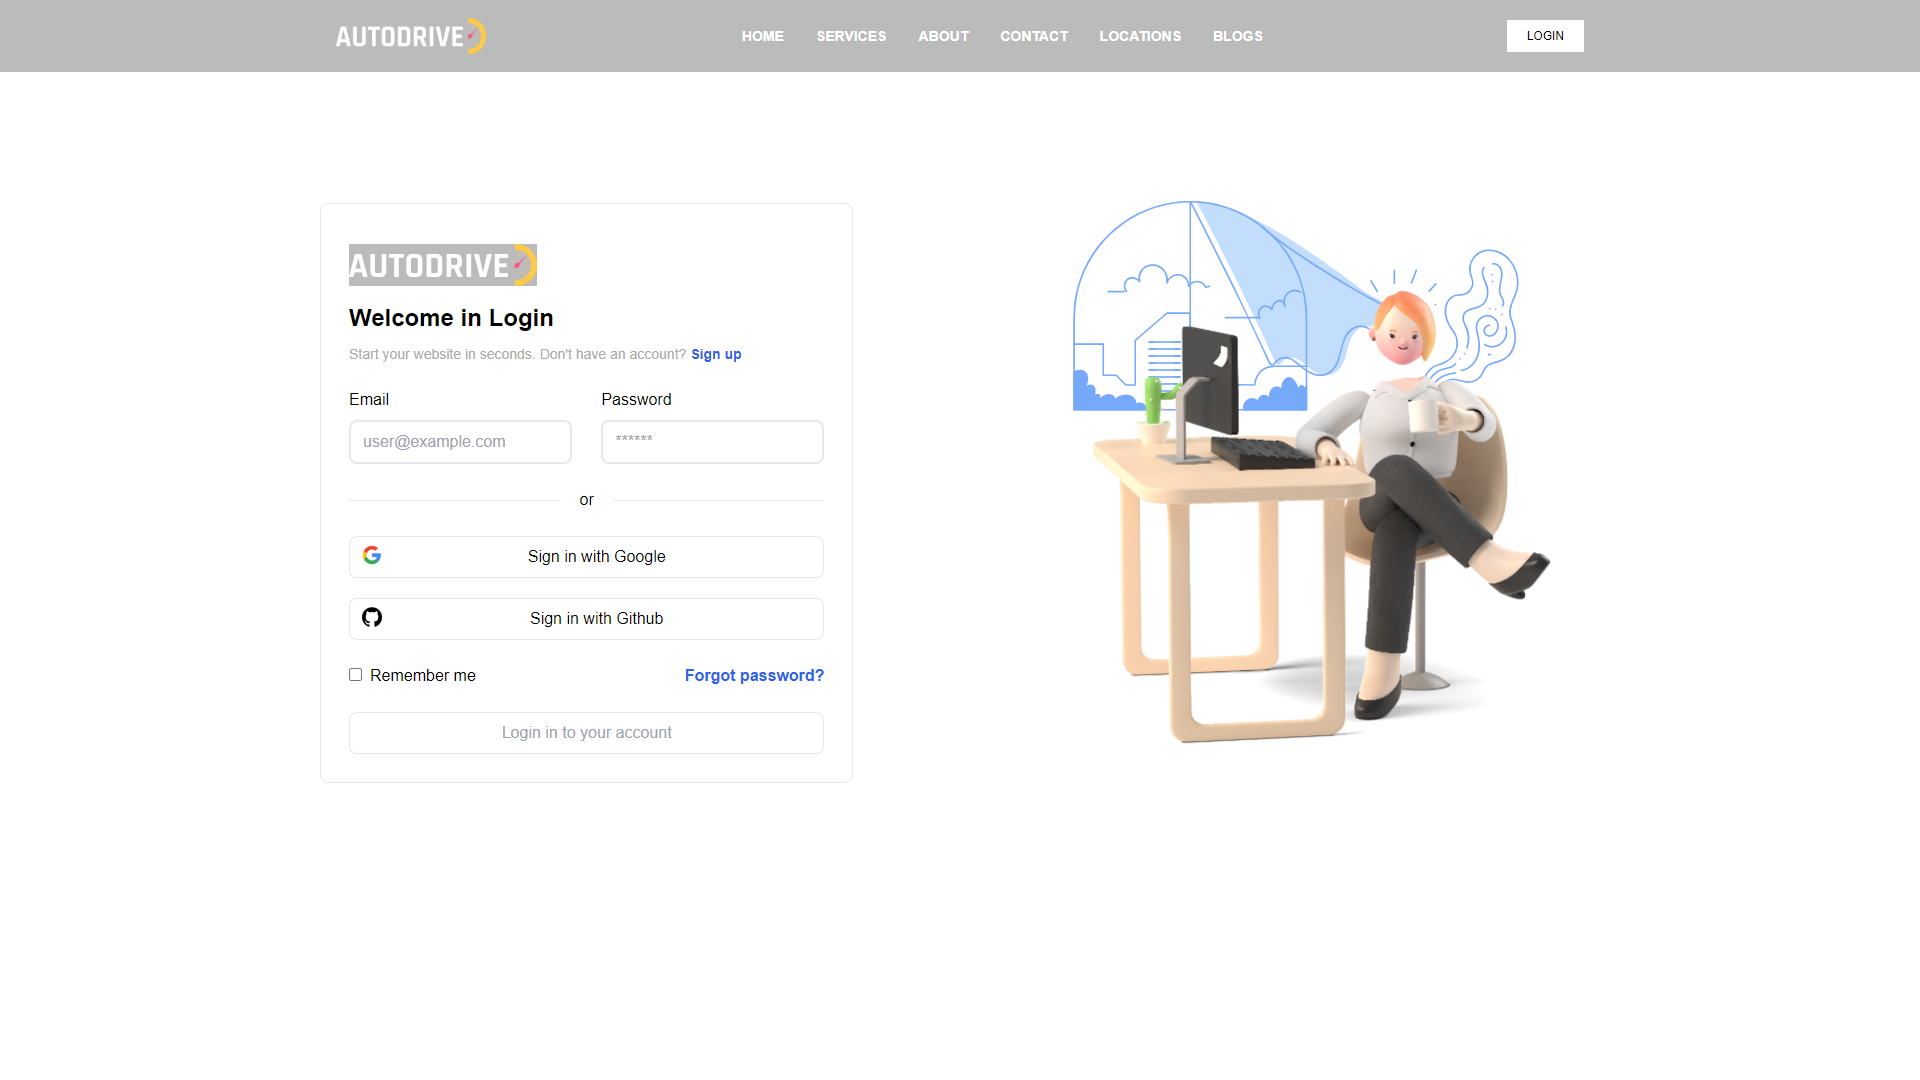
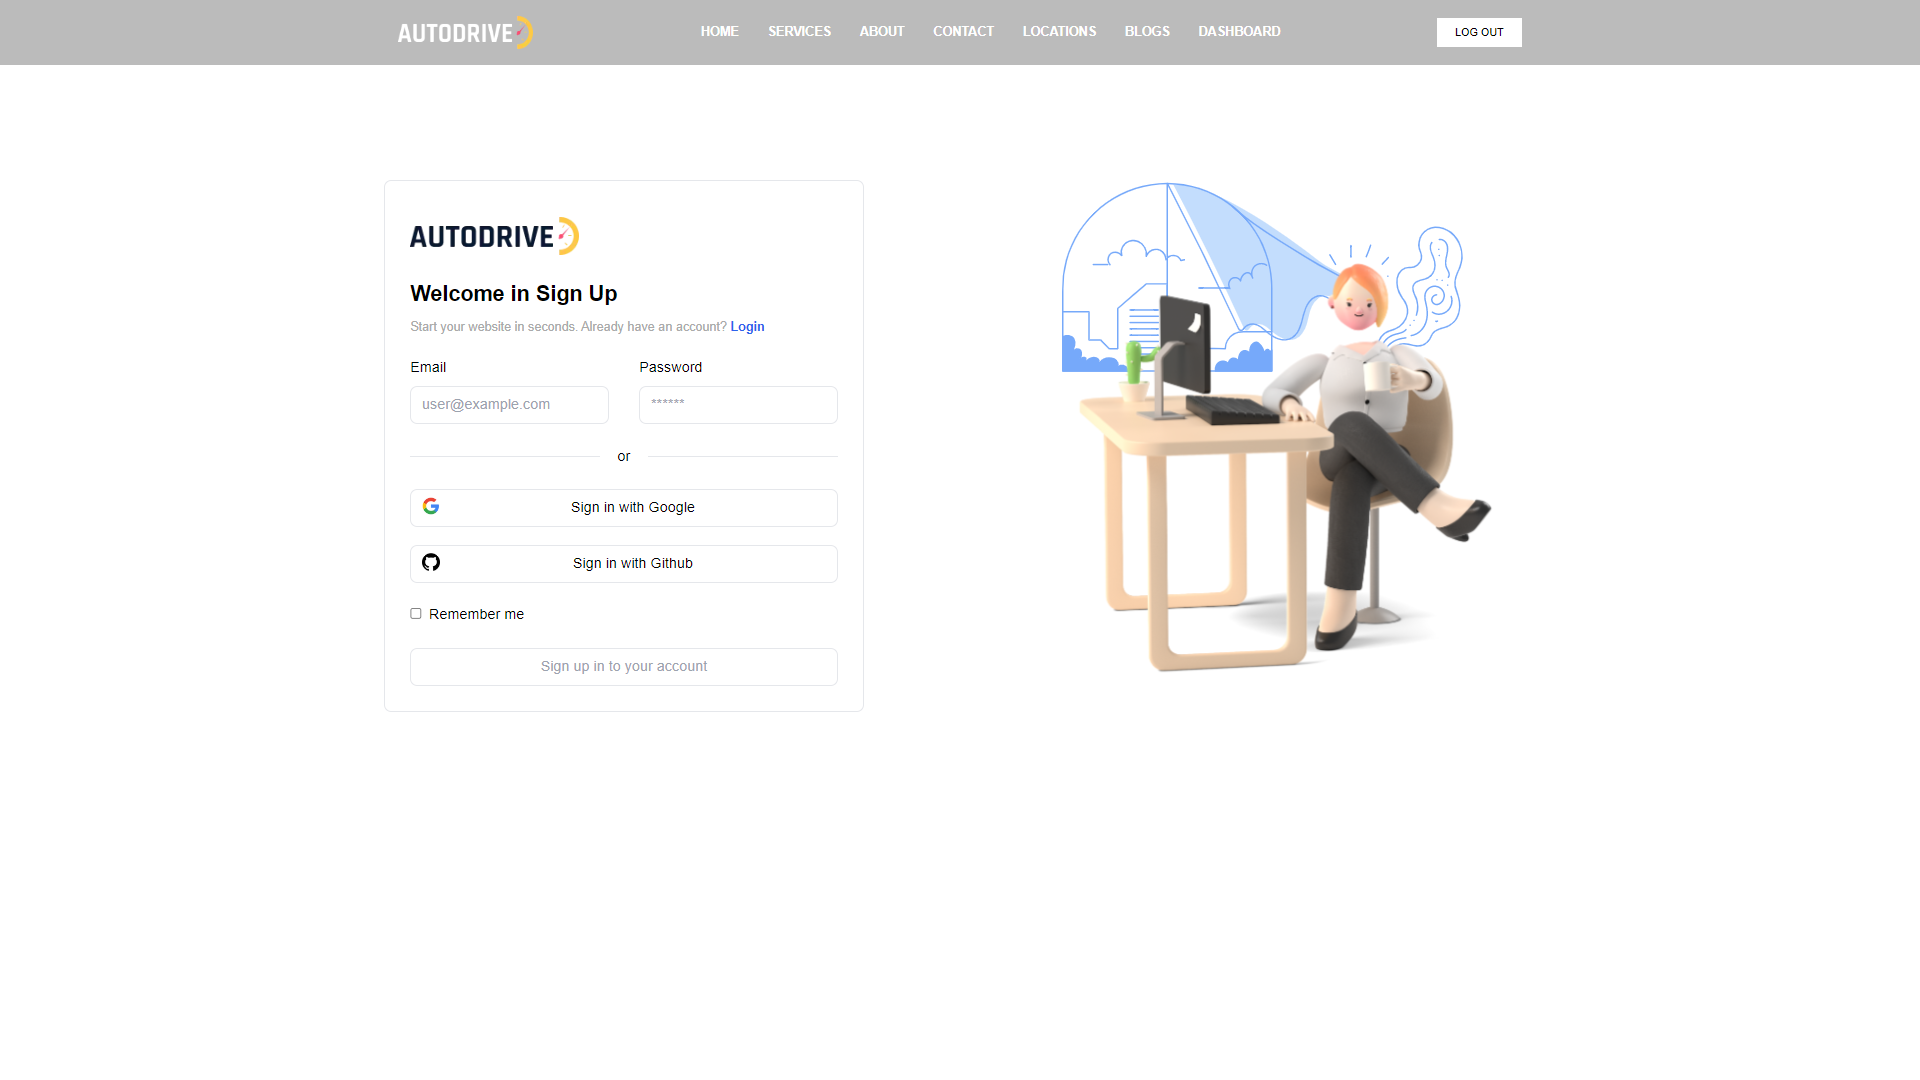
now dashboar design  is very  good

diff --git a/components/Layout/DashboardLayout.js b/components/Layout/DashboardLayout.js
@@ -3,14 +3,12 @@ import Navbar from "../Navbar";
 import Footer from '../../components/Footer'
 import Link from "next/link";
 import { useRouter } from "next/router";
-import { useDispatch, useSelector } from "react-redux";
-import {dashboardToggle} from "../../redux/dashboardToggle";
+import { useState } from "react";
 
 const DashboardLayout = ({ children }) => {
-    const toggle = useSelector(state => state.dashboardToggle.value)
-    const dispatch = useDispatch()
-    
+
     const router = useRouter()
+    const [open, setOpen] = useState(true);
     return (
         <main>
             <Head>
@@ -19,34 +17,64 @@ const DashboardLayout = ({ children }) => {
             </Head>
             <Navbar>Dashboard</Navbar>
             <section className='max-w-7xl mx-auto flex overflow-hidden'>
-                <aside className={`bg-[#ccc] lg:p-5 pl-2 pr-4 sm:px-4 lg:pl-10 pb-10 min-h-[50vh] relative duration-300 ${toggle ? 'w-[45px] sm:w-[50px] md:w-[60px] lg:w-[100px]': 'md:w-[300px] min-w-[150px]'}`}>
-                    <i onClick={() => dispatch(dashboardToggle())} className={`fa-solid fa-angle-right bg-white border-[1px] border-[black] px-[4px] py-[2px] sm:px-2 p sm:py-1 text-[10px] sm:text-sm rounded-full absolute right-[-7px] sm:right-[-12px] top-[5px] md:top-[10px] lg:top-[15px] cursor-pointer duration-300 ${!toggle && 'rotate-180'}`}></i>
-                    <div>
-                        <Link className={`text-sm md:text-xl mt-[10px] sm:mt-[20px] lg:mt-[30px] inline-block grid grid-cols-8 ${router.route === '/dashboard' && 'text-white'}`} href='/dashboard'> <i className="fa-solid fa-user self-center"></i> <span className={`col-start-3 col-end-9 md:col-start-2 md:col-end-9 duration-300 ml-2 ${toggle && 'hidden'}`}>Profile</span></Link>
+                <div className={`${open ? "w-72" : "w-12 sm:w-20"} bg-dark-purple p-1 sm:p-5 pt-5 sm:pt-8 relative duration-300 bg-[#ccc] min-h-[70vh]`}>
+                    <i onClick={() => setOpen(!open)} className={`fa-solid fa-angle-right absolute cursor-pointer -right-3 top-9 px-2 hover:bg-white border-black py-1 border-2 rounded-full  ${open && "rotate-180"}`}></i>
+                    <div className="flex gap-x-4 items-center">
+                        <h1 className={`text-white origin-left font-medium text-xl duration-200 ${!open && "scale-0"}`}>
+                            Dashboard
+                        </h1>
                     </div>
-                    <div>
-                        <Link className={`text-sm md:text-xl mt-[5px] sm:mt-[10px] md:mt-[20px] lg:mt-[30px] inline-block grid grid-cols-8 ${router?.route === '/dashboard/addCar' && 'text-white'}`} href='/dashboard/addCar'> <i className="fa-solid fa-plus self-center"></i> <span className={`col-start-3 col-end-9 md:col-start-2 md:col-end-9 duration-300 ml-2 ${toggle && 'hidden'}`}>Add Car</span></Link>
+                    <div className="pt-4">
+                        <Link href='/dashboard' className={`flex  rounded-md p-2 cursor-pointer hover:bg-light-white text-sm items-center gap-x-4 ${router.route === '/dashboard' && 'text-white'}`}>
+                            <i className="text-xl fa-solid fa-user"></i>
+                            <span className={`${!open && "hidden"} origin-left duration-200 whitespace-nowrap`}>
+                                Profile
+                            </span>
+                        </Link>
+                        <Link href='/dashboard/addCar' className={`flex  rounded-md p-2 cursor-pointer hover:bg-light-white text-sm items-center gap-x-4 mt-2 ${router.route === '/dashboard/addCar' && 'text-white'}`}>
+                            <i className="text-xl fa-solid fa-plus self-center"></i>
+                            <span className={`${!open && "hidden"} origin-left duration-200 whitespace-nowrap`}>
+                                Add Car
+                            </span>
+                        </Link>
+                        <Link href='/dashboard/makeAdmin' className={`flex  rounded-md p-2 cursor-pointer hover:bg-light-white text-sm items-center gap-x-4 mt-2 ${router.route === '/dashboard/makeAdmin' && 'text-white'}`}>
+                            <i className="fa-solid fa-user-group self-center"></i>
+                            <span className={`${!open && "hidden"} origin-left duration-200 whitespace-nowrap`}>
+                                Make Admin
+                            </span>
+                        </Link>
+                        <Link href='/dashboard/manageCars' className={`flex  rounded-md p-2 cursor-pointer hover:bg-light-white text-sm items-center gap-x-4 mt-2 ${router.route === '/dashboard/manageCars' && 'text-white'}`}>
+                            <i className="fa-solid fa-car self-center"></i>
+                            <span className={`${!open && "hidden"} origin-left duration-200 whitespace-nowrap`}>
+                                Manage Cars
+                            </span>
+                        </Link>
+                        <Link href='/dashboard/manageOrders' className={`flex  rounded-md p-2 cursor-pointer hover:bg-light-white text-sm items-center gap-x-4 mt-2 ${router.route === '/dashboard/manageOrders' && 'text-white'}`}>
+                            <i className="text-xl fa-brands fa-first-order self-center"></i>
+                            <span className={`${!open && "hidden"} origin-left duration-200 whitespace-nowrap`}>
+                                Manage Orders
+                            </span>
+                        </Link>
+                        <Link href='/dashboard/myOrders' className={`flex  rounded-md p-2 cursor-pointer hover:bg-light-white text-sm items-center gap-x-4 mt-2 ${router.route === '/dashboard/myOrders' && 'text-white'}`}>
+                            <i className="text-xl fa-brands fa-first-order-alt self-center"></i>
+                            <span className={`${!open && "hidden"} origin-left duration-200 whitespace-nowrap`}>
+                                My Orders
+                            </span>
+                        </Link>
+                        <Link href='/dashboard/addReview' className={`flex  rounded-md p-2 cursor-pointer hover:bg-light-white text-sm items-center gap-x-4 mt-2 ${router.route === '/dashboard/addReview' && 'text-white'}`}>
+                            <i className="text-xl fa-solid fa-comment self-center"></i>
+                            <span className={`${!open && "hidden"} origin-left duration-200 whitespace-nowrap`}>
+                                Add Review
+                            </span>
+                        </Link>
+                        <Link href='/dashboard/proposCar' className={`flex  rounded-md p-2 cursor-pointer hover:bg-light-white text-sm items-center gap-x-4 mt-2 ${router.route === '/dashboard/proposCar' && 'text-white'}`}>
+                            <i className="text-xl fa-solid fa-handshake self-center"></i>
+                            <span className={`${!open && "hidden"} origin-left duration-200 whitespace-nowrap`}>
+                                Car&apos;s Propos
+                            </span>
+                        </Link>
                     </div>
-                    <div>
-                        <Link className={`text-sm md:text-xl mt-[5px] sm:mt-[10px] md:mt-[20px] lg:mt-[30px] inline-block grid grid-cols-8 ${router?.route === '/dashboard/makeAdmin' && 'text-white'}`} href='/dashboard/makeAdmin'> <i className="fa-solid fa-user-group self-center"></i> <span className={`col-start-3 col-end-9 md:col-start-2 md:col-end-9 duration-300 ml-2 ${toggle && 'hidden'}`}>Make Admin</span></Link>
-                    </div>
-                    <div>
-                        <Link className={`text-sm md:text-xl mt-[5px] sm:mt-[10px] md:mt-[20px] lg:mt-[30px] inline-block grid grid-cols-8 ${router?.route === '/dashboard/mangeCars' && 'text-white'}`} href='/dashboard/mangeCars'> <i className="fa-solid fa-car self-center"></i> <span className={`col-start-3 col-end-9 md:col-start-2 md:col-end-9 duration-300 ml-2 ${toggle && 'hidden'}`}>Manage Cars</span></Link>
-                    </div>
-                    <div>
-                        <Link className={`text-sm md:text-xl mt-[5px] sm:mt-[10px] md:mt-[20px] lg:mt-[30px] inline-block grid grid-cols-8 ${router?.route === '/dashboard/manageOrders' && 'text-white'}`} href='/dashboard/manageOrders'> <i className="fa-brands fa-first-order self-center"></i> <span className={`col-start-3 col-end-9 md:col-start-2 md:col-end-9 duration-300 ml-2 ${toggle && 'hidden'}`}>Manage Orders</span></Link>
-                    </div>
-                    <div>
-                        <Link className={`text-sm md:text-xl mt-[5px] sm:mt-[10px] md:mt-[20px] lg:mt-[30px] inline-block grid grid-cols-8  ${router?.route === '/dashboard/myOrders' && 'text-white'}`} href='/dashboard/myOrders'> <i className="fa-brands fa-first-order-alt self-center"></i> <span className={`col-start-3 col-end-9 md:col-start-2 md:col-end-9 duration-300 ml-2 ${toggle && 'hidden'}`}>My Orders</span></Link>
-                    </div>
-                    <div>
-                        <Link className={`text-sm md:text-xl mt-[5px] sm:mt-[10px] md:mt-[20px] lg:mt-[30px] inline-block grid grid-cols-8  ${router?.route === '/dashboard/addReview' && 'text-white'}`} href='/dashboard/addReview'> <i className="fa-solid fa-comment self-center"></i> <span className={`col-start-3 col-end-9 md:col-start-2 md:col-end-9 duration-300 ml-2 ${toggle && 'hidden'}`}>Add Review</span></Link>
-                    </div>
-                    <div>
-                        <Link className={`text-sm md:text-xl mt-[5px] sm:mt-[10px] md:mt-[20px] lg:mt-[30px] inline-block grid grid-cols-8 ${router?.route === '/dashboard/proposCar' && 'text-white'}`} href='/dashboard/proposCar'> <i className="fa-solid fa-handshake self-center"></i> <span className={`col-start-3 col-end-9 md:col-start-2 md:col-end-9 duration-300 ml-2 ${toggle && 'hidden'}`}>Car&apos;s Propos</span></Link>
-                    </div>
-                    
-                </aside>
+                </div>
                 <aside className='ml-8 mt-10 overflow-x-auto'>
                     {children}
                 </aside>

diff --git a/pages/login.js b/pages/login.js
@@ -54,7 +54,6 @@ const Login = () => {
 
             <div className='mx-1 xl:mx-auto max-w-7xl flex justify-center lg:justify-between items-center mt-4 sm:mt-8 lg:mt-14 xl:mt-20 2xl:mt-32 mb-3'>
                 <div className='mg:w-6/12 xl:w-5/12 p-4 md:p-7 md:pt-10 border rounded-lg'>
-                    {/* <Image width='188' height='42' className='bg-[#bbbbbb] mb-4' src='https://templatekits.themewarrior.com/autodrive/wp-content/uploads/sites/42/2021/12/logo-autodrive.png' alt=''></Image> */}
                     <Image width='188' height='42' className='mb-2 sm:mb-7' src='https://templatekits.themewarrior.com/autodrive/wp-content/uploads/sites/42/2021/12/logo-autodrive-dark.png' alt='autodrive logo'></Image>
                     <h2 className='text-2xl font-semibold mb-2.5'>Welcome in Login</h2>
                     <p className='text-sm text-[#aaaaaa]'>Start your website in seconds. Don&apos;t have an account? <Link className='text-[#2c63ec] font-semibold' href='/signup' alt=''>Sign up</Link></p>

diff --git a/pages/signup.js b/pages/signup.js
@@ -71,7 +71,6 @@ const Signup = () => {
 
             <div className='mx-1 xl:mx-auto max-w-7xl flex justify-center lg:justify-between items-center mt-4 sm:mt-8 lg:mt-14 xl:mt-20 2xl:mt-32 mb-3'>
                 <div className='mg:w-6/12 xl:w-5/12 p-4 md:p-7 md:pt-10 border rounded-lg'>
-                    {/* <Image width='188' height='42' className='bg-[#bbbbbb] mb-4' src='https://templatekits.themewarrior.com/autodrive/wp-content/uploads/sites/42/2021/12/logo-autodrive.png' alt=''></Image> */}
                     <Image width='188' height='42' className='mb-2 sm:mb-7' src='https://templatekits.themewarrior.com/autodrive/wp-content/uploads/sites/42/2021/12/logo-autodrive-dark.png' alt='autodrive logo'></Image>
                     <h2 className='text-2xl font-semibold mb-2.5'>Welcome in Sign Up</h2>
                     <p className='text-sm text-[#aaaaaa]'>Start your website in seconds. Already have an account? <Link className='text-[#2c63ec] font-semibold' href='/login' alt=''>Login</Link></p>

diff --git a/redux/store.js b/redux/store.js
@@ -1,12 +1,10 @@
 import { configureStore } from '@reduxjs/toolkit';
-import dashboardToggle from './dashboardToggle';
 import tokenSlice from './token';
 import userData from './userData';
 
 const store = configureStore({
     reducer: {
         token: tokenSlice,
-        dashboardToggle: dashboardToggle,
         user: userData
     }
 })

diff --git a/tailwind.config.js b/tailwind.config.js
@@ -5,7 +5,11 @@ module.exports = {
     "./components/**/*.{js,ts,jsx,tsx}",
   ],
   theme: {
-    extend: {},
+    extend: {
+      screens: {
+        xs: "320px",
+      }
+    },
   },
   plugins: [],
 }
